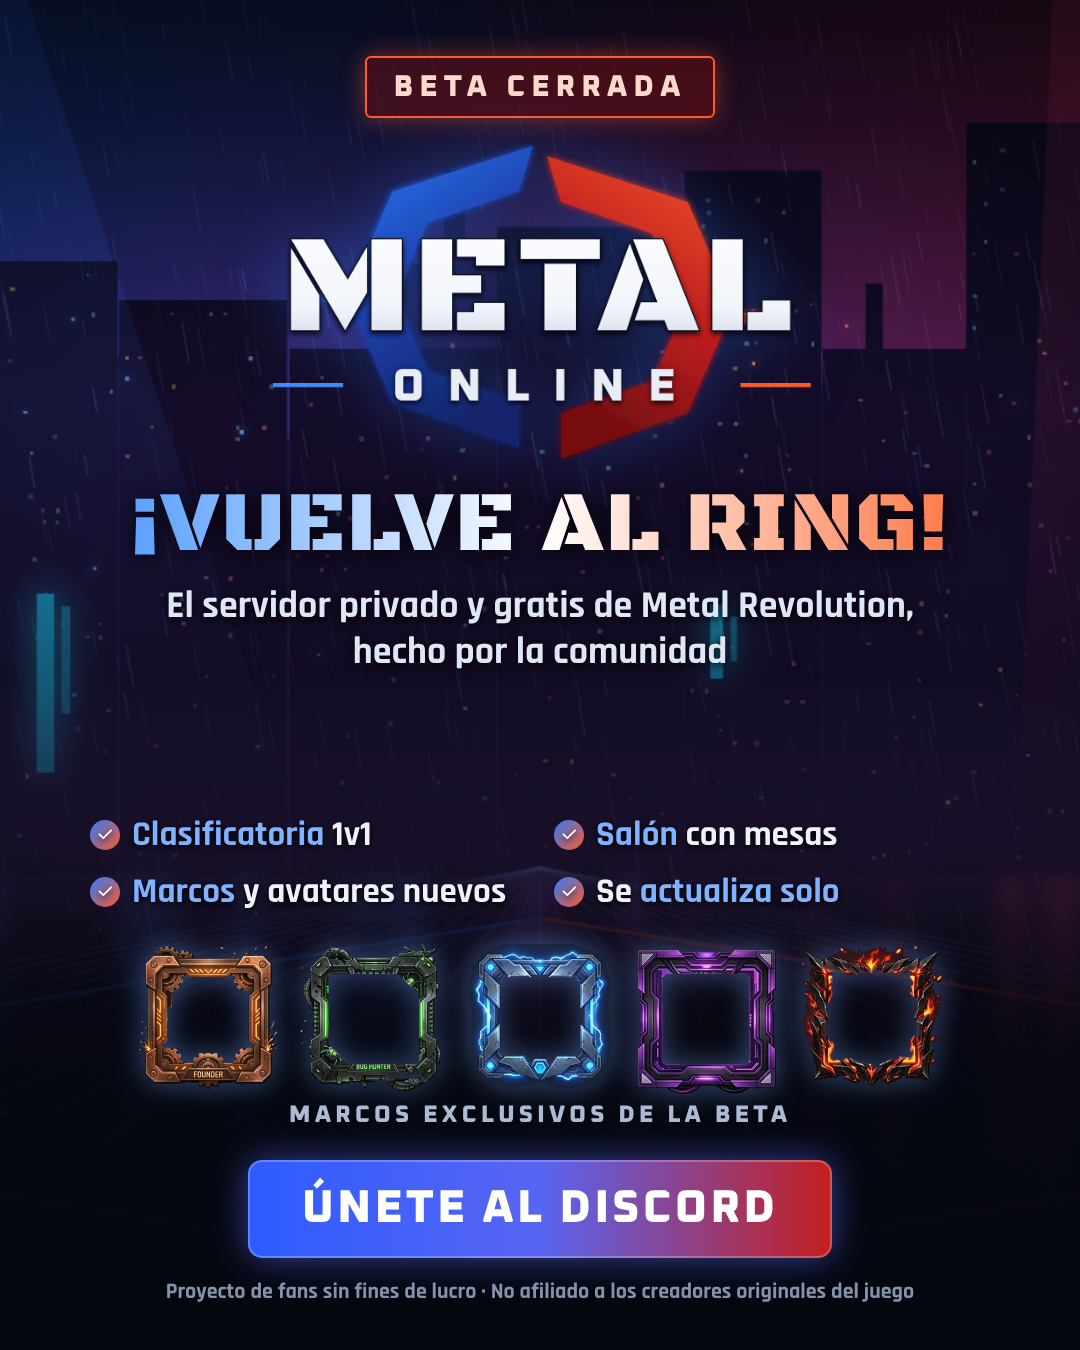
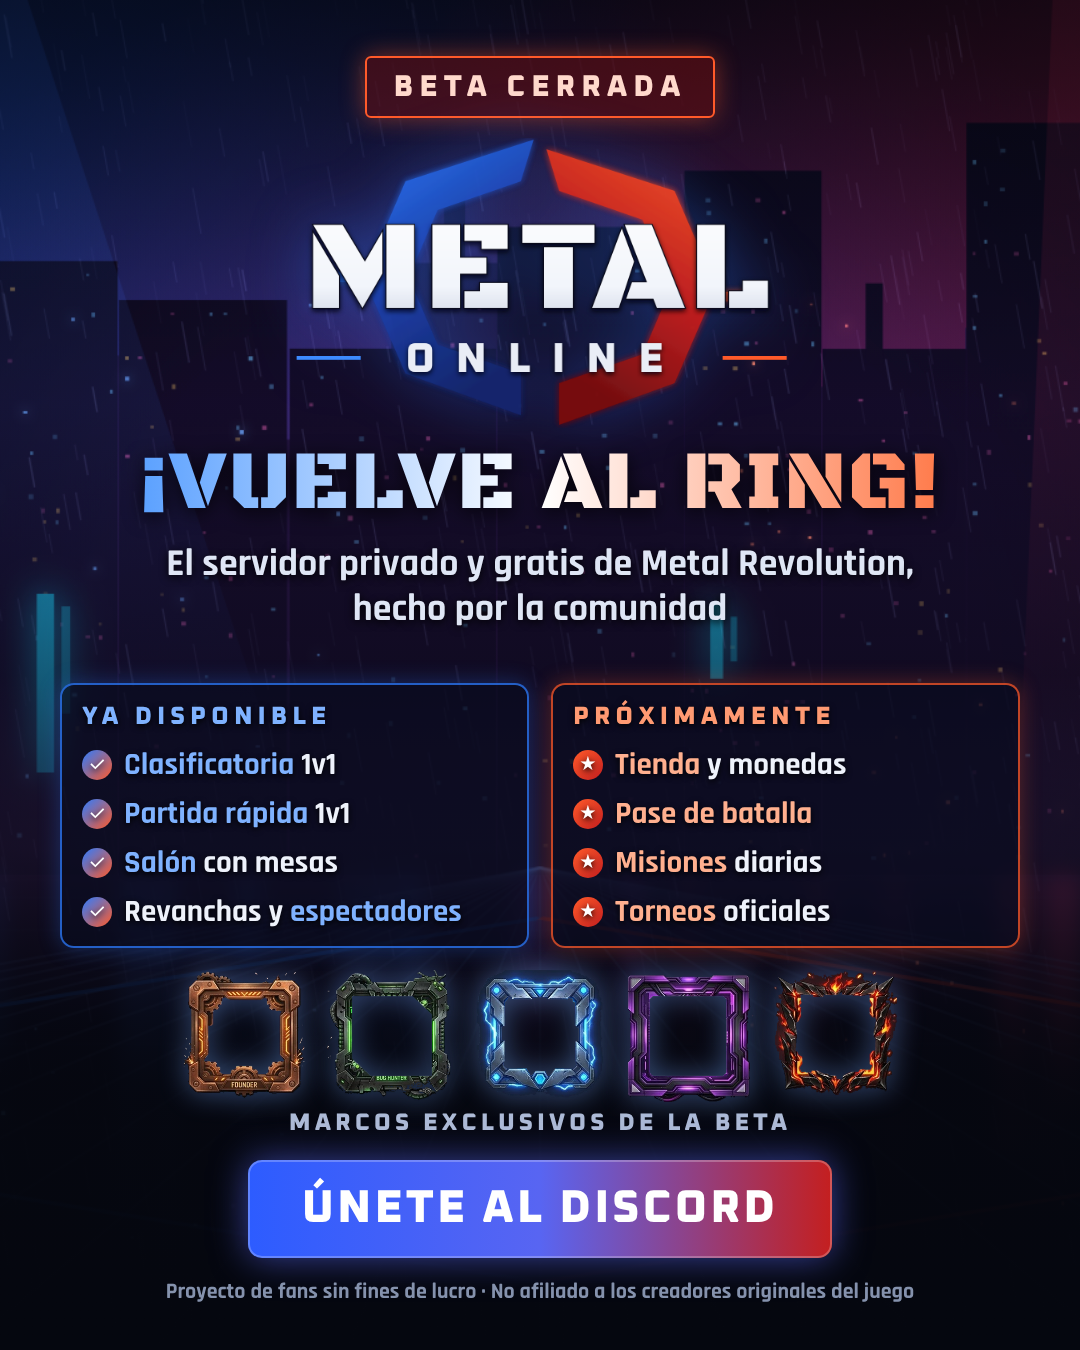
Post de Facebook: modos de pelea disponibles y lo que viene (tienda, pase de batalla, misiones, torneos)
Claude-Session: https://claude.ai/code/session_01378KXLmKKWLMHthwqewWVK

Changed region(s): [[0.0306, 0.0933, 0.9472, 0.84]]

diff --git a/metal-revolution/tools/arte/promo.html b/metal-revolution/tools/arte/promo.html
@@ -7,18 +7,25 @@ html,body{margin:0;width:1080px;height:1350px;overflow:hidden;background:#05070f
 .velo{position:absolute;inset:0;background:linear-gradient(180deg,rgba(5,7,15,.55) 0%,rgba(5,7,15,.15) 30%,rgba(5,7,15,.55) 55%,rgba(5,7,15,.95) 80%,#05070f 100%)}
 .cont{position:absolute;inset:0;display:flex;flex-direction:column;align-items:center;padding:56px 60px 44px;box-sizing:border-box}
 .chip{font-family:Oxanium;font-size:30px;letter-spacing:6px;padding:10px 26px;border:2px solid #ff5a2a;color:#ffd9cc;background:rgba(122,16,16,.45);border-radius:6px;box-shadow:0 0 24px rgba(255,90,42,.45)}
-.logo{width:900px;margin-top:26px;filter:drop-shadow(0 0 30px rgba(45,124,255,.35))}
-h1{font-family:BlackOps;font-weight:400;font-size:86px;margin:20px 0 0;letter-spacing:2px;text-align:center;line-height:1;
+.logo{width:820px;margin-top:20px;filter:drop-shadow(0 0 30px rgba(45,124,255,.35))}
+h1{font-family:BlackOps;font-weight:400;font-size:84px;margin:14px 0 0;letter-spacing:2px;text-align:center;line-height:1;
    background:linear-gradient(90deg,#5aa0ff,#ffffff 50%,#ff7a4a);-webkit-background-clip:text;color:transparent;filter:drop-shadow(0 4px 10px rgba(0,0,0,.8))}
 .sub{font-size:38px;text-align:center;margin-top:16px;line-height:1.2;color:#dfe6f5;text-shadow:0 2px 8px #000}
 .lista{margin-top:auto;width:100%;display:grid;grid-template-columns:1fr 1fr;gap:12px 28px;font-size:35px;padding:0 30px;box-sizing:border-box}
 .lista div{display:flex;align-items:center;gap:12px;text-shadow:0 2px 6px #000}
 .lista b{color:#7fb2ff;font-weight:700}
 .ok{width:30px;height:30px;border-radius:50%;background:linear-gradient(135deg,#2d7cff,#ff5a2a);display:inline-flex;align-items:center;justify-content:center;font-size:20px;color:#fff;flex:none}
-.marcos{display:flex;gap:16px;margin-top:30px;align-items:center}
-.marcos img{width:150px;height:150px;filter:drop-shadow(0 0 14px rgba(120,170,255,.45))}
+.cols{margin-top:auto;width:100%;display:grid;grid-template-columns:1fr 1fr;gap:22px}
+.col{border-radius:14px;padding:16px 20px 14px;background:rgba(8,12,30,.62);font-size:31px;display:flex;flex-direction:column;gap:9px}
+.col div{display:flex;align-items:center;gap:12px;text-shadow:0 2px 6px #000}
+.col .tit{font-family:Oxanium;font-size:25px;letter-spacing:5px;margin-bottom:4px}
+.ya{border:2px solid rgba(45,124,255,.75);box-shadow:0 0 22px rgba(45,124,255,.3)} .ya .tit{color:#7fb2ff} .ya b{color:#7fb2ff}
+.pronto{border:2px solid rgba(255,90,42,.75);box-shadow:0 0 22px rgba(255,90,42,.3)} .pronto .tit{color:#ff9a72} .pronto b{color:#ffb08f}
+.pronto .ok{background:linear-gradient(135deg,#ff5a2a,#c41f1f);font-size:17px}
+.marcos{display:flex;gap:16px;margin-top:22px;align-items:center}
+.marcos img{width:132px;height:132px;filter:drop-shadow(0 0 14px rgba(120,170,255,.45))}
 .cap{font-family:Oxanium;font-size:24px;letter-spacing:4px;color:#aebbd6;margin-top:6px}
-.cta{margin-top:30px;font-family:Oxanium;font-size:46px;letter-spacing:3px;padding:20px 54px;border-radius:14px;color:#fff;
+.cta{margin-top:22px;font-family:Oxanium;font-size:46px;letter-spacing:3px;padding:20px 54px;border-radius:14px;color:#fff;
      background:linear-gradient(90deg,#2d5cff,#5865f2 50%,#c41f1f);box-shadow:0 0 36px rgba(88,101,242,.6),inset 0 0 0 2px rgba(255,255,255,.25)}
 .pie{margin-top:20px;font-size:22px;color:#8592ad;text-align:center}
 </style></head><body>
@@ -28,11 +35,19 @@ h1{font-family:BlackOps;font-weight:400;font-size:86px;margin:20px 0 0;letter-sp
   <img class="logo" src="../../datos/arte/logo_v2_4x.png">
   <h1>¡VUELVE AL RING!</h1>
   <div class="sub">El servidor privado y gratis de <b>Metal Revolution</b>,<br>hecho por la comunidad</div>
-  <div class="lista">
-    <div><span class="ok">✓</span><span><b>Clasificatoria</b> 1v1</span></div>
-    <div><span class="ok">✓</span><span><b>Salón</b> con mesas</span></div>
-    <div><span class="ok">✓</span><span><b>Marcos</b> y avatares nuevos</span></div>
-    <div><span class="ok">✓</span><span>Se <b>actualiza solo</b></span></div>
+  <div class="cols">
+    <div class="col ya"><div class="tit">YA DISPONIBLE</div>
+      <div><span class="ok">✓</span><span><b>Clasificatoria</b> 1v1</span></div>
+      <div><span class="ok">✓</span><span><b>Partida rápida</b> 1v1</span></div>
+      <div><span class="ok">✓</span><span><b>Salón</b> con mesas</span></div>
+      <div><span class="ok">✓</span><span>Revanchas y <b>espectadores</b></span></div>
+    </div>
+    <div class="col pronto"><div class="tit">PRÓXIMAMENTE</div>
+      <div><span class="ok">★</span><span><b>Tienda</b> y monedas</span></div>
+      <div><span class="ok">★</span><span><b>Pase de batalla</b></span></div>
+      <div><span class="ok">★</span><span><b>Misiones</b> diarias</span></div>
+      <div><span class="ok">★</span><span><b>Torneos</b> oficiales</span></div>
+    </div>
   </div>
   <div class="marcos">
     <img src="../../datos/marcos_beta/juego/founder_256.png"><img src="../../datos/marcos_beta/juego/bughunter_256.png">
